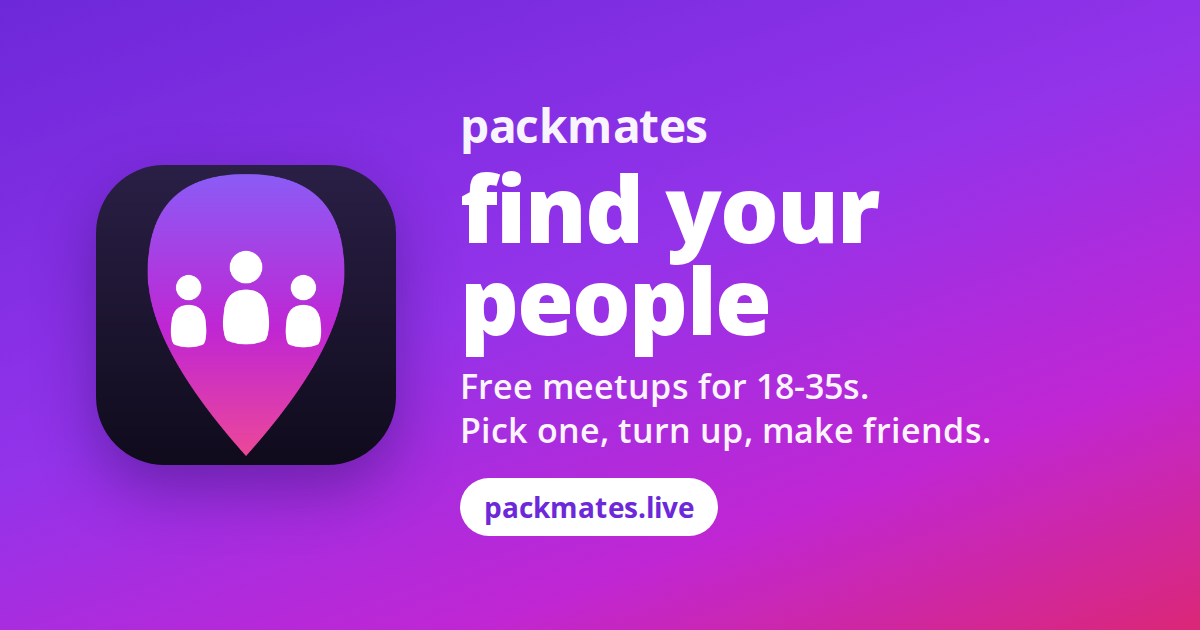
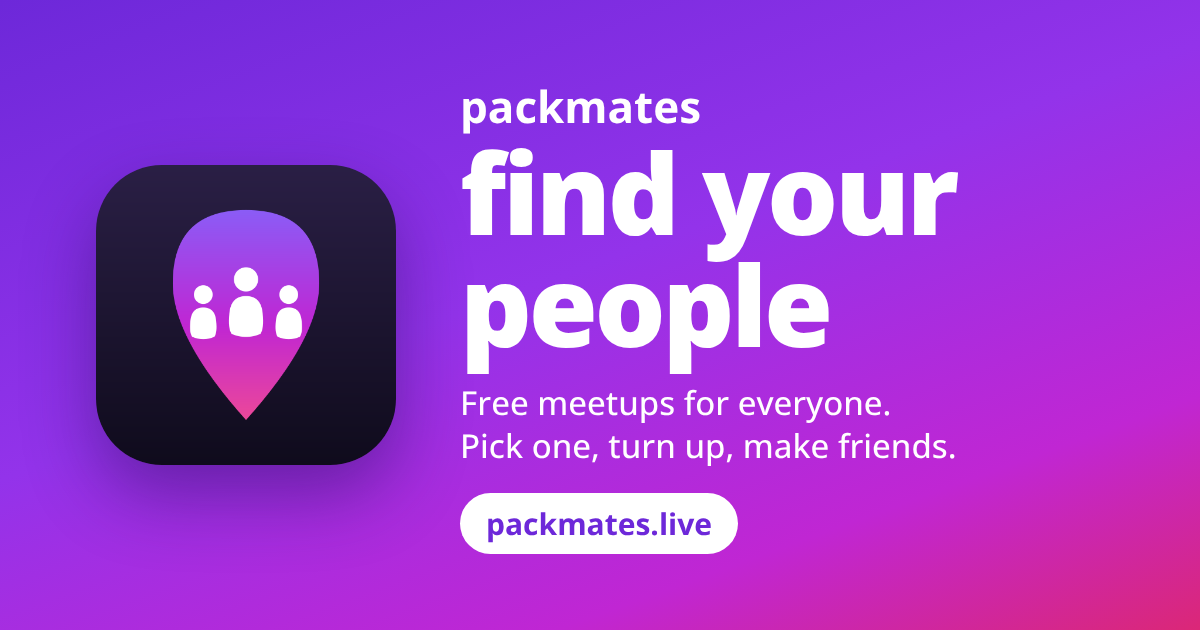
Drop the 18-35 wording: Packmates is for everyone
Redraw the share image to say meetups are for everyone, and make the
'Who is it for?' answer say the host can choose an age range.

Claude-Session: https://claude.ai/code/session_015pVQ2ZT6e2aEhmM3STKCVe

Changed region(s): [[0.37, 0.1508, 0.8325, 0.9048], [0.1233, 0.2714, 0.3083, 0.7238]]

diff --git a/index.html b/index.html
@@ -192,7 +192,7 @@
         <h2 class="title">Tap one.</h2>
         <div class="faq">
           <details class="reveal"><summary>What is Packmates?</summary><p>A free map of meetups. Pick one. Turn up. Nobody can message you.</p></details>
-          <details class="reveal"><summary>Who is it for?</summary><p>Anyone 18 or over can join. Hosts can keep a meetup to an age range.</p></details>
+          <details class="reveal"><summary>Who is it for?</summary><p>Everyone. Anyone 18 or over can join, and the host can choose an age range for their meetup.</p></details>
           <details class="reveal"><summary>How do I go to a meetup?</summary><p>Tap a pin on the Map. Tap <strong>I'm in</strong>. Turn up. Can't go? Tap <strong>I can't go now</strong>.</p></details>
           <details class="reveal"><summary>How do I post a meetup?</summary><p>Tap <strong>Post</strong> and answer a few questions. You can post after your first meetup.</p></details>
           <details class="reveal"><summary>How do I stay safe?</summary><p>Stay in public. Tell a friend where you are. Feels wrong? Leave.</p></details>
